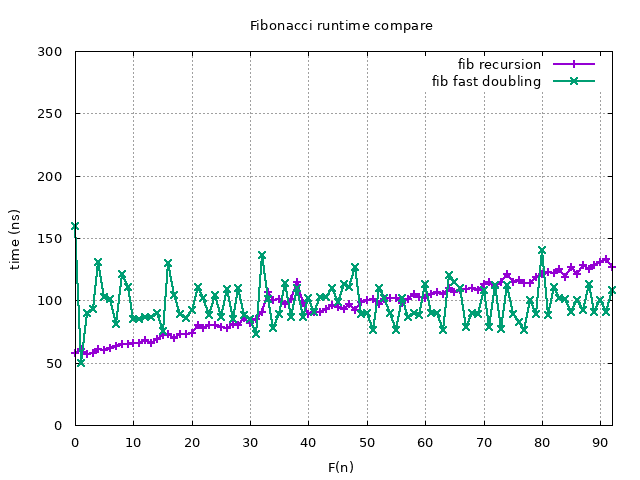
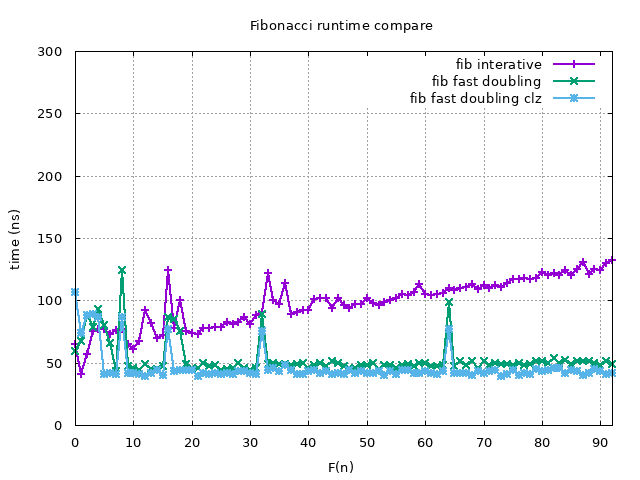
Implement fast doubling use clz
Because fast doubling has part whitch need to find most significant
bit, we can use clz to replace this part for hardware speed up.

diff --git a/fibdrv.c b/fibdrv.c
@@ -63,9 +63,30 @@ static long long fib_fast_doubling(long long k)
     return a;
 }
 
+static long long fib_fast_doubling_clz(long long k)
+{
+    long long h = 64 - __builtin_clzll(k);
+
+    long long a = 0;
+    long long b = 1;
+    for (unsigned int mask = 1 << (h - 1); mask; mask >>= 1) {
+        long long c = a * (2 * b - a);
+        long long d = a * a + b * b;
+
+        if (mask & k) {
+            a = d;
+            b = c + d;
+        } else {
+            a = c;
+            b = d;
+        }
+    }
+    return a;
+}
+
 static long long fib_sequence(long long k)
 {
-    return fib_fast_doubling(k);
+    return fib_fast_doubling_clz(k);
 }
 
 static int fib_open(struct inode *inode, struct file *file)
@@ -120,6 +141,11 @@ static ssize_t fib_write(struct file *file,
     case 2:
         kt = ktime_get();
         fib_fast_doubling(*offset);
+        kt = ktime_sub(ktime_get(), kt);
+        break;
+    case 3:
+        kt = ktime_get();
+        fib_fast_doubling_clz(*offset);
         kt = ktime_sub(ktime_get(), kt);
         break;
     default:

diff --git a/client_plot.c b/client_plot.c
@@ -38,6 +38,17 @@ int main(int argc, char *argv[])
             time_fast_doubling = write(fd, buf, 2);
             printf("%d %lld %lld\n", i, time_interative, time_fast_doubling);
         }
+    } else if (argv[1][0] == '2') {  // fast_doubling_clz runnung time compare
+        for (int i = 0; i <= offset; i++) {
+            long long time_interative, time_fast_doubling,
+                time_fast_doubling_clz;
+            lseek(fd, i, SEEK_SET);
+            time_interative = write(fd, buf, 1);
+            time_fast_doubling = write(fd, buf, 2);
+            time_fast_doubling_clz = write(fd, buf, 3);
+            printf("%d %lld %lld %lld\n", i, time_interative,
+                   time_fast_doubling, time_fast_doubling_clz);
+        }
     }
     close(fd);
     return 0;
